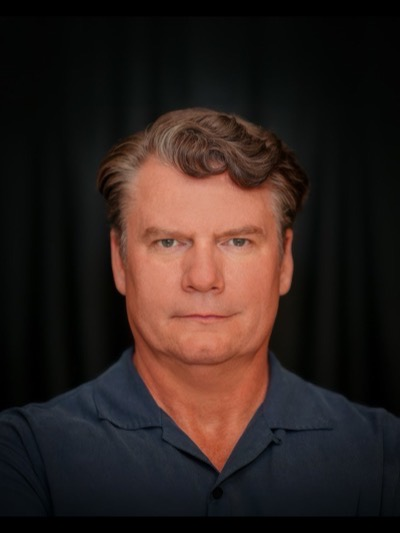
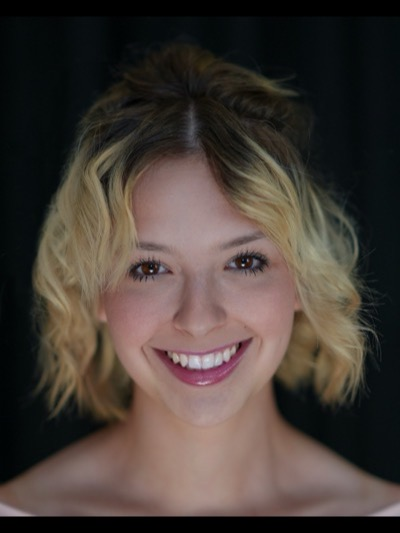
Feature women in headshot samples, add Acting Resume button
Swap samples to a varied trio (02, 03, 04) and add a resume link at the
bottom in the default button style. Resume href is still a placeholder.

diff --git a/index.html b/index.html
@@ -141,9 +141,9 @@
     <section class="links">
       <a class="card card-hs" data-gc="btn-headshots" href="https://jasonsnowphotos.com" target="_blank" rel="noopener">
         <span class="hs-strip">
-          <img src="assets/hs-sample-1.jpg" alt="Actor headshot by Jason Snow" loading="lazy">
-          <img src="assets/hs-sample-2.jpg" alt="Actor headshot by Jason Snow" loading="lazy">
-          <img src="assets/hs-sample-3.jpg" alt="Actor headshot by Jason Snow" loading="lazy">
+          <img src="assets/hs-sample-1.jpg" alt="Actor headshot photographed by Jason Snow" loading="lazy">
+          <img src="assets/hs-sample-2.jpg" alt="Actor headshot photographed by Jason Snow" loading="lazy">
+          <img src="assets/hs-sample-3.jpg" alt="Professional portrait photographed by Jason Snow" loading="lazy">
         </span>
         <span class="card-label">
           <svg class="btn-icon hs-cam" viewBox="0 0 24 24"><path d="M14.5 4h-5L7 7H4a2 2 0 0 0-2 2v9a2 2 0 0 0 2 2h16a2 2 0 0 0 2-2V9a2 2 0 0 0-2-2h-3l-2.5-3z"/><circle cx="12" cy="13" r="3"/></svg>
@@ -171,6 +171,13 @@
         </span>
         <img class="p-badge" src="assets/p-mark.webp" alt="">
         <span class="card-label">Prodrome (Short Movie) <span class="arrow">↗</span></span>
+      </a>
+
+      <!-- TODO: swap href for the real resume link (PDF, Actors Access, Casting Networks…) -->
+      <a class="btn" data-gc="btn-resume" href="#">
+        <svg class="btn-icon" viewBox="0 0 24 24"><path d="M14 2H6a2 2 0 0 0-2 2v16a2 2 0 0 0 2 2h12a2 2 0 0 0 2-2V8z"/><path d="M14 2v6h6"/><path d="M8 13h8"/><path d="M8 17h5"/></svg>
+        <span class="btn-label">Acting Resume</span>
+        <span class="arrow">↗</span>
       </a>
     </section>
 
